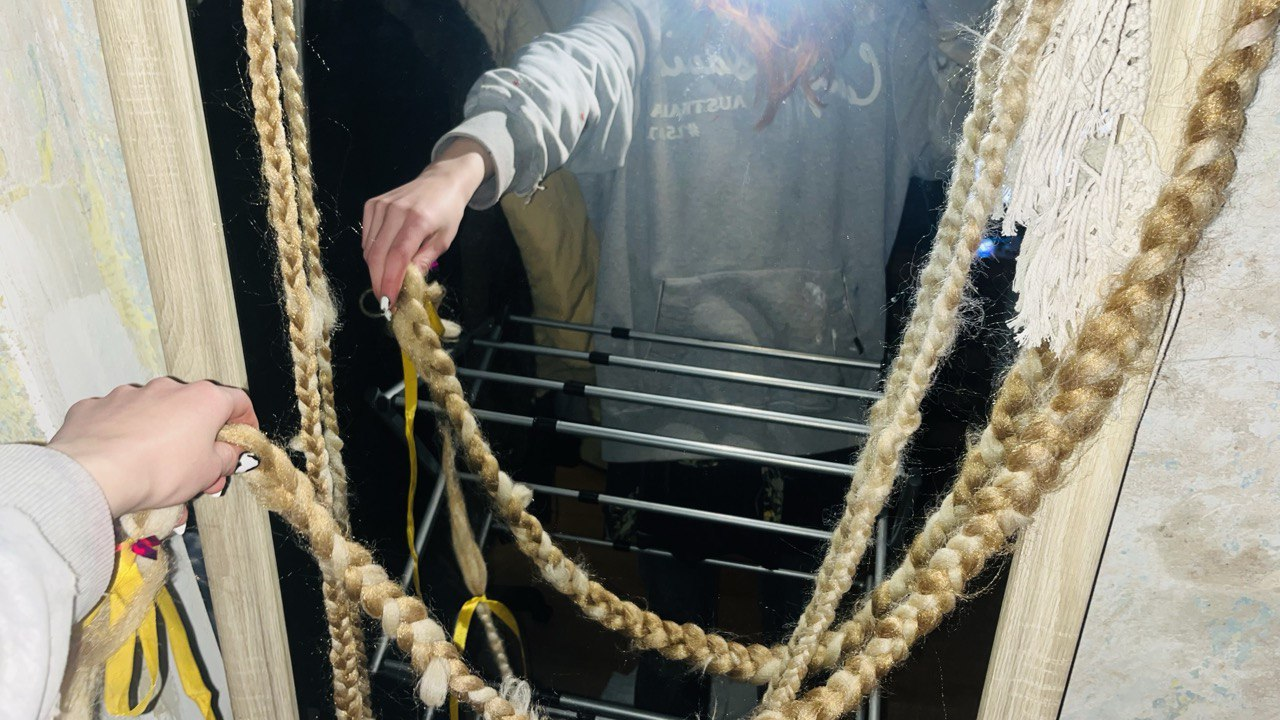
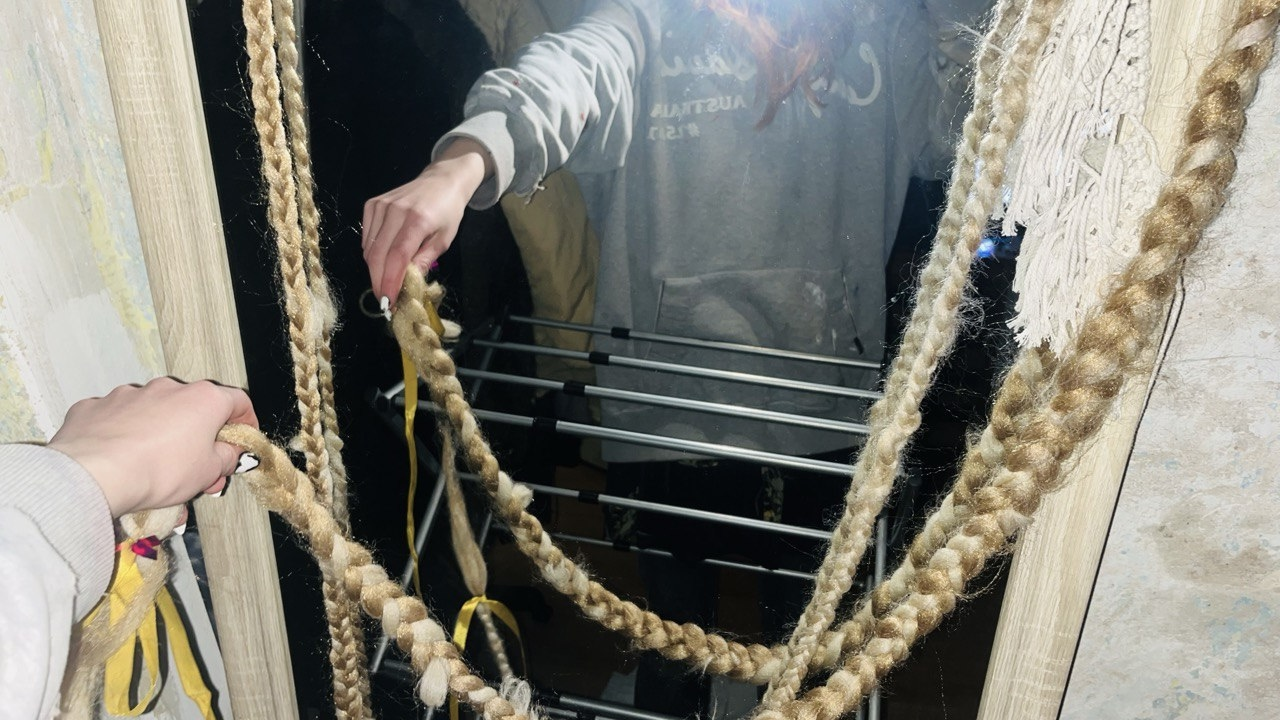
gandriz done lapa jjardin lol stulba atstarpe besi ara

diff --git a/jjardin-ruego.html b/jjardin-ruego.html
@@ -56,17 +56,26 @@
         <!-- trīs attēli rindā (a, 8, b) -->
         <div class="three-row">
           <img src="portfolkoio materia;/berlinizstad/a.jpeg" alt="🌀👨🦰🧧🦊">
-          <img src="portfolkoio materia;/berlinizstad/mazaks/8.jpg" alt="💪">
+          <img src="portfolkoio materia;/berlinizstad/star.jpeg" alt="💪">
           <img src="portfolkoio materia;/berlinizstad/b.jpeg" alt="🌀👨🦰🧧🦊">
         </div>
-        <div class="two-row">
-          <img src="portfolkoio materia;/berlinizstad/WhatsApp Image 2026-02-12 at 03.39.27 (4).jpeg" alt="??">
-          <img src="portfolkoio materia;/berlinizstad/followed.jpeg" alt="...">
-        </div>
         <img src="portfolkoio materia;/berlinizstad/MPNS1936.jpg" alt="🌀👨🦰🧧🦊">
-      </div>
+        <img src="portfolkoio materia;/berlinizstad/MPNS1890.jpg" alt="🌀👨🦰🧧🦊">
+        <div class="center-row">
+          <img src="portfolkoio materia;/berlinizstad/photo_2026-02-13_01-28-07.jpg" alt="🌀👨🦰🧧🦊" class="gallery-small-center">
+        </div>
+        </div>
+        
+    </div>
       <h3>JJARDIN / RUEGO</h3>
-      <p>Group show/event, 2025</p>
+     <p class="location-date-text">One-day group show accompanied by musical performances
+      <br>Pandora Art Gallery, Berlin
+      <br> June 7, 2025. <br> <br></p>
+<p class="detail-text">The core of the exhibition was based upon  the visual and emotional language of lost-object notices—particularly those for missing animals, keys, and other personal belongings—using them as points of departure to explore absence, displacement, and the quiet anxieties embedded in everyday loss. 
+ <br> <br> The exhibition featured a series of visual works, including gathered missing animal and item posters, photographies, drawings, and mixed-media pieces.
+  <br> <br>In addition to the visual works, the exhibition featured live musical performances. The gallery space was transformed into a contemplative environment where attendees could reflect on the transient nature of life and that which we hold dear.
+</p>
+
     </div>
 
 

diff --git a/style.css b/style.css
@@ -14,6 +14,15 @@ body {
   user-select: none;
 }
 
+.detail-text {
+  font-family: 'Coral Pixels', sans-serif;
+  font-size: 0.75rem;
+  line-height: 1.5;
+  letter-spacing: 0.02em;
+  opacity: 0.9;
+  text-align: justify;
+}
+
 a {
   color: inherit;
   text-decoration: none;
@@ -191,7 +200,7 @@ a {
 /* ===== CONTENT ===== */
 .content {
   flex: 4;
-  padding: 2rem 0.5rem 3rem 2rem;
+  padding: 2rem 2rem 3rem 2rem;
 }
 
 .section-title {
@@ -259,6 +268,20 @@ a {
   display: block;
 }
 
+.center-row {
+  display: flex;
+  justify-content: center;
+  gap: 0;
+}
+
+.center-row img.gallery-small-center {
+  width: min(80%, 3000px);
+  max-width: 300px;
+  height: auto;
+  object-fit: contain;
+  display: block;
+}
+
 .proj-img {
   width: 100%;
   height: 400px;
@@ -290,7 +313,7 @@ a {
   font-weight: 420;
   text-transform: uppercase;
   color: #1a1a1a;
-  margin-top: 0.15rem;
+  margin-top: 0.15¡rem;
   margin-bottom: 0.35rem;
   user-select: text;
 }
@@ -494,17 +517,36 @@ a {
 
 /* ===== RESPONSIVE: STACK ROWS ON SMALL SCREENS ===== */
 @media (max-width: 767px) {
-  .proj-img-vert .two-row,
-  .proj-img-vert .three-row {
+  .proj-img-vert .two-row {
     flex-direction: column;
     gap: 0.5rem;
   }
 
-  .proj-img-vert .two-row img,
-  .proj-img-vert .three-row img {
+  .proj-img-vert .two-row img {
     width: 100%;
     max-width: none;
     height: auto;
+    display: block;
+  }
+
+  .proj-img-vert .three-row {
+    flex-direction: row;
+    gap: 0.5rem;
+  }
+
+  .proj-img-vert .three-row img {
+    flex: 1 1 0;
+    width: calc((100% - 1rem) / 3);
+    max-width: none;
+    min-width: 0;
+    height: auto;
+    display: block;
+  }
+
+  .gallery-small-center {
+    width: min(80%, 300px);
+    margin-left: auto;
+    margin-right: auto;
     display: block;
   }
 }

diff --git a/index.html b/index.html
@@ -66,7 +66,7 @@
         <!-- trīs attēli rindā (a, 8, b) -->
         <div class="three-row">
           <img src="portfolkoio materia;/berlinizstad/a.jpeg" alt="🌀👨🦰🧧🦊">
-          <img src="portfolkoio materia;/berlinizstad/mazaks/8.jpg" alt="💪">
+          <img src="portfolkoio materia;/berlinizstad/star.jpeg" alt="💪">
           <img src="portfolkoio materia;/berlinizstad/b.jpeg" alt="🌀👨🦰🧧🦊">
         </div>
         
